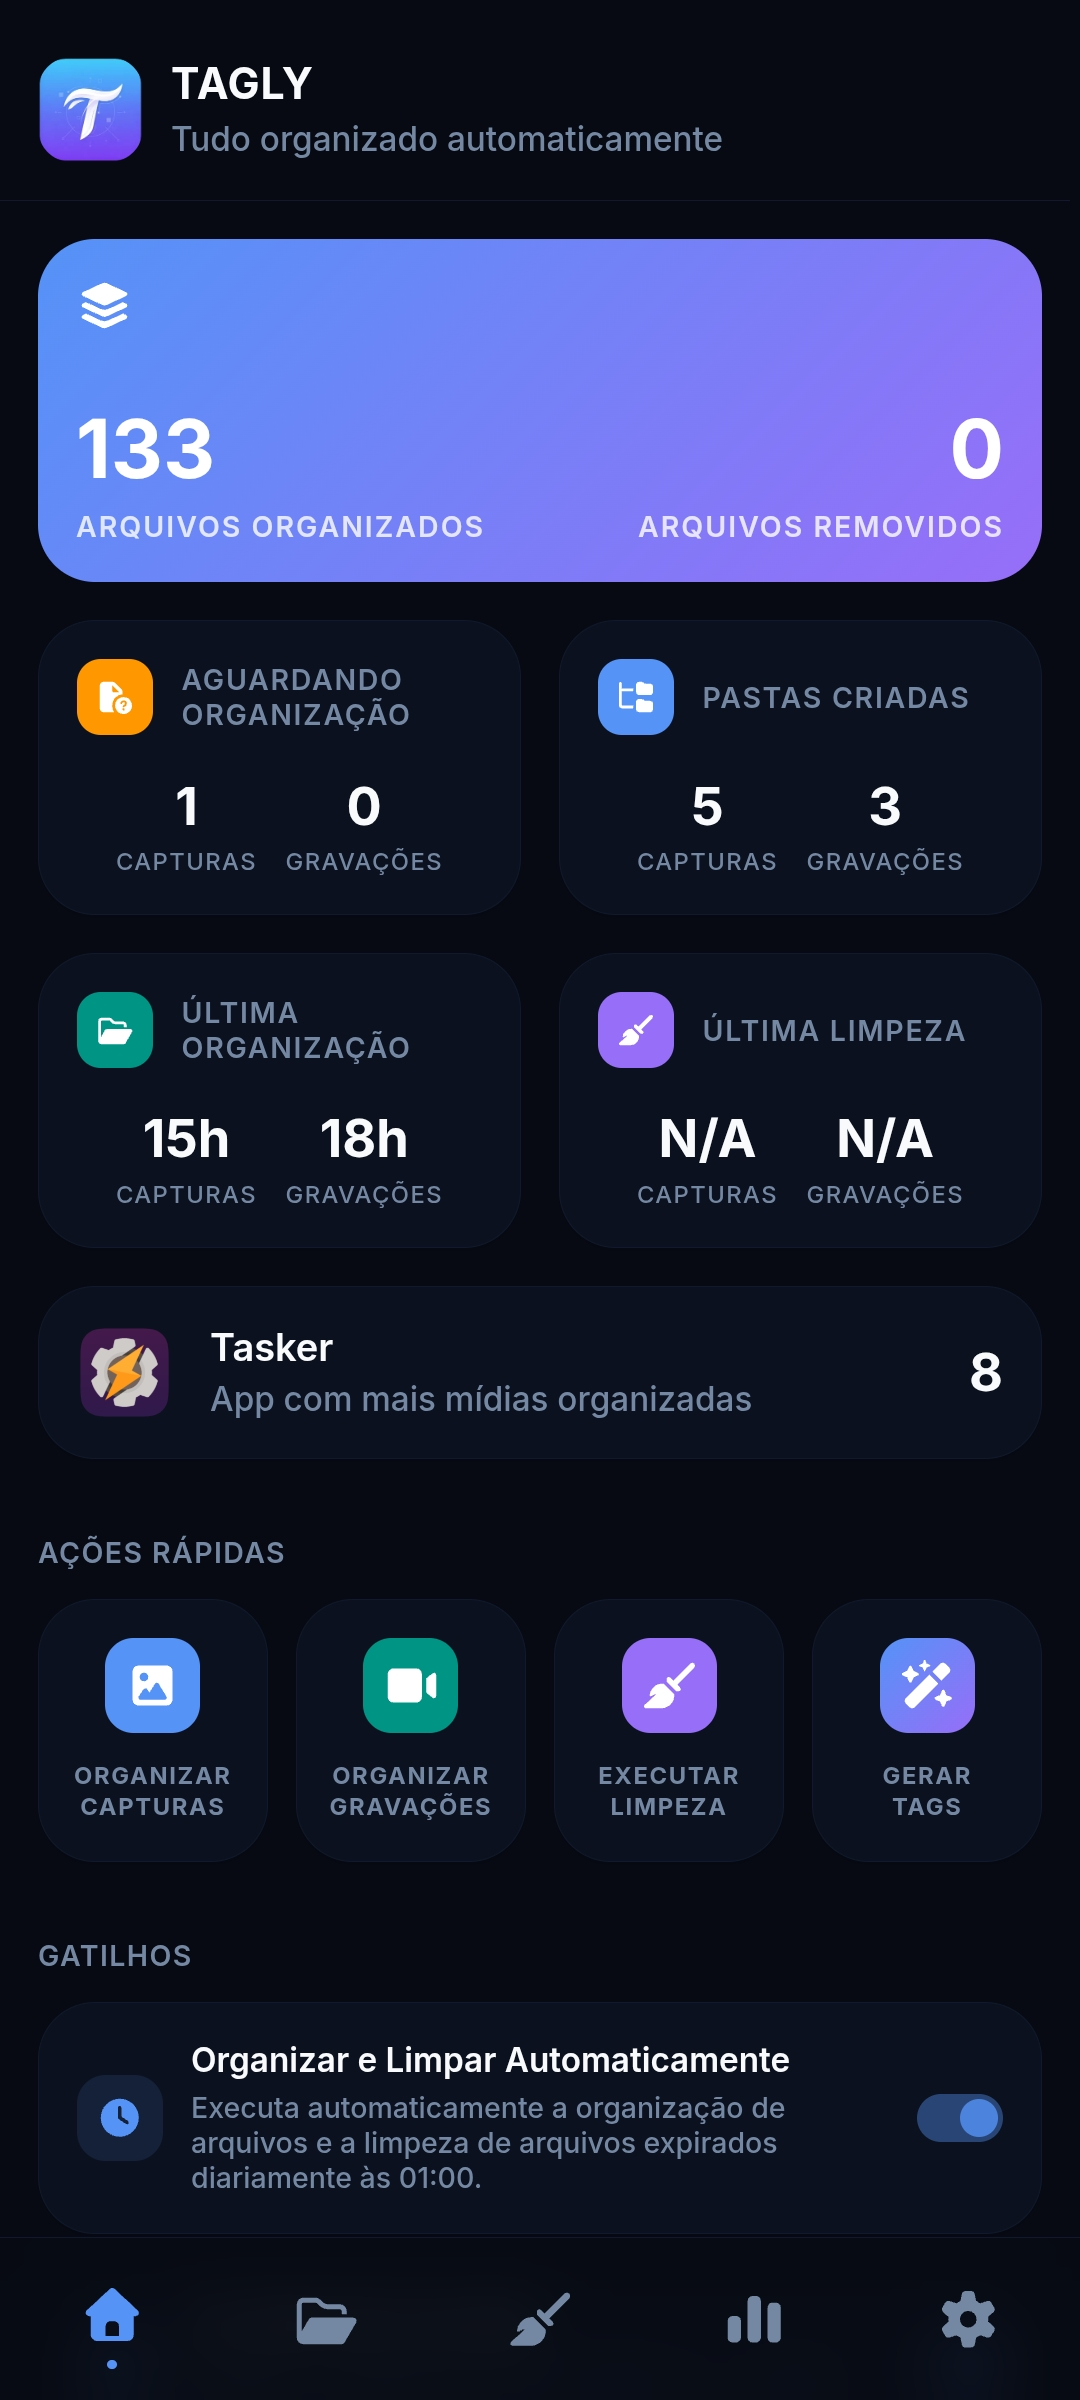
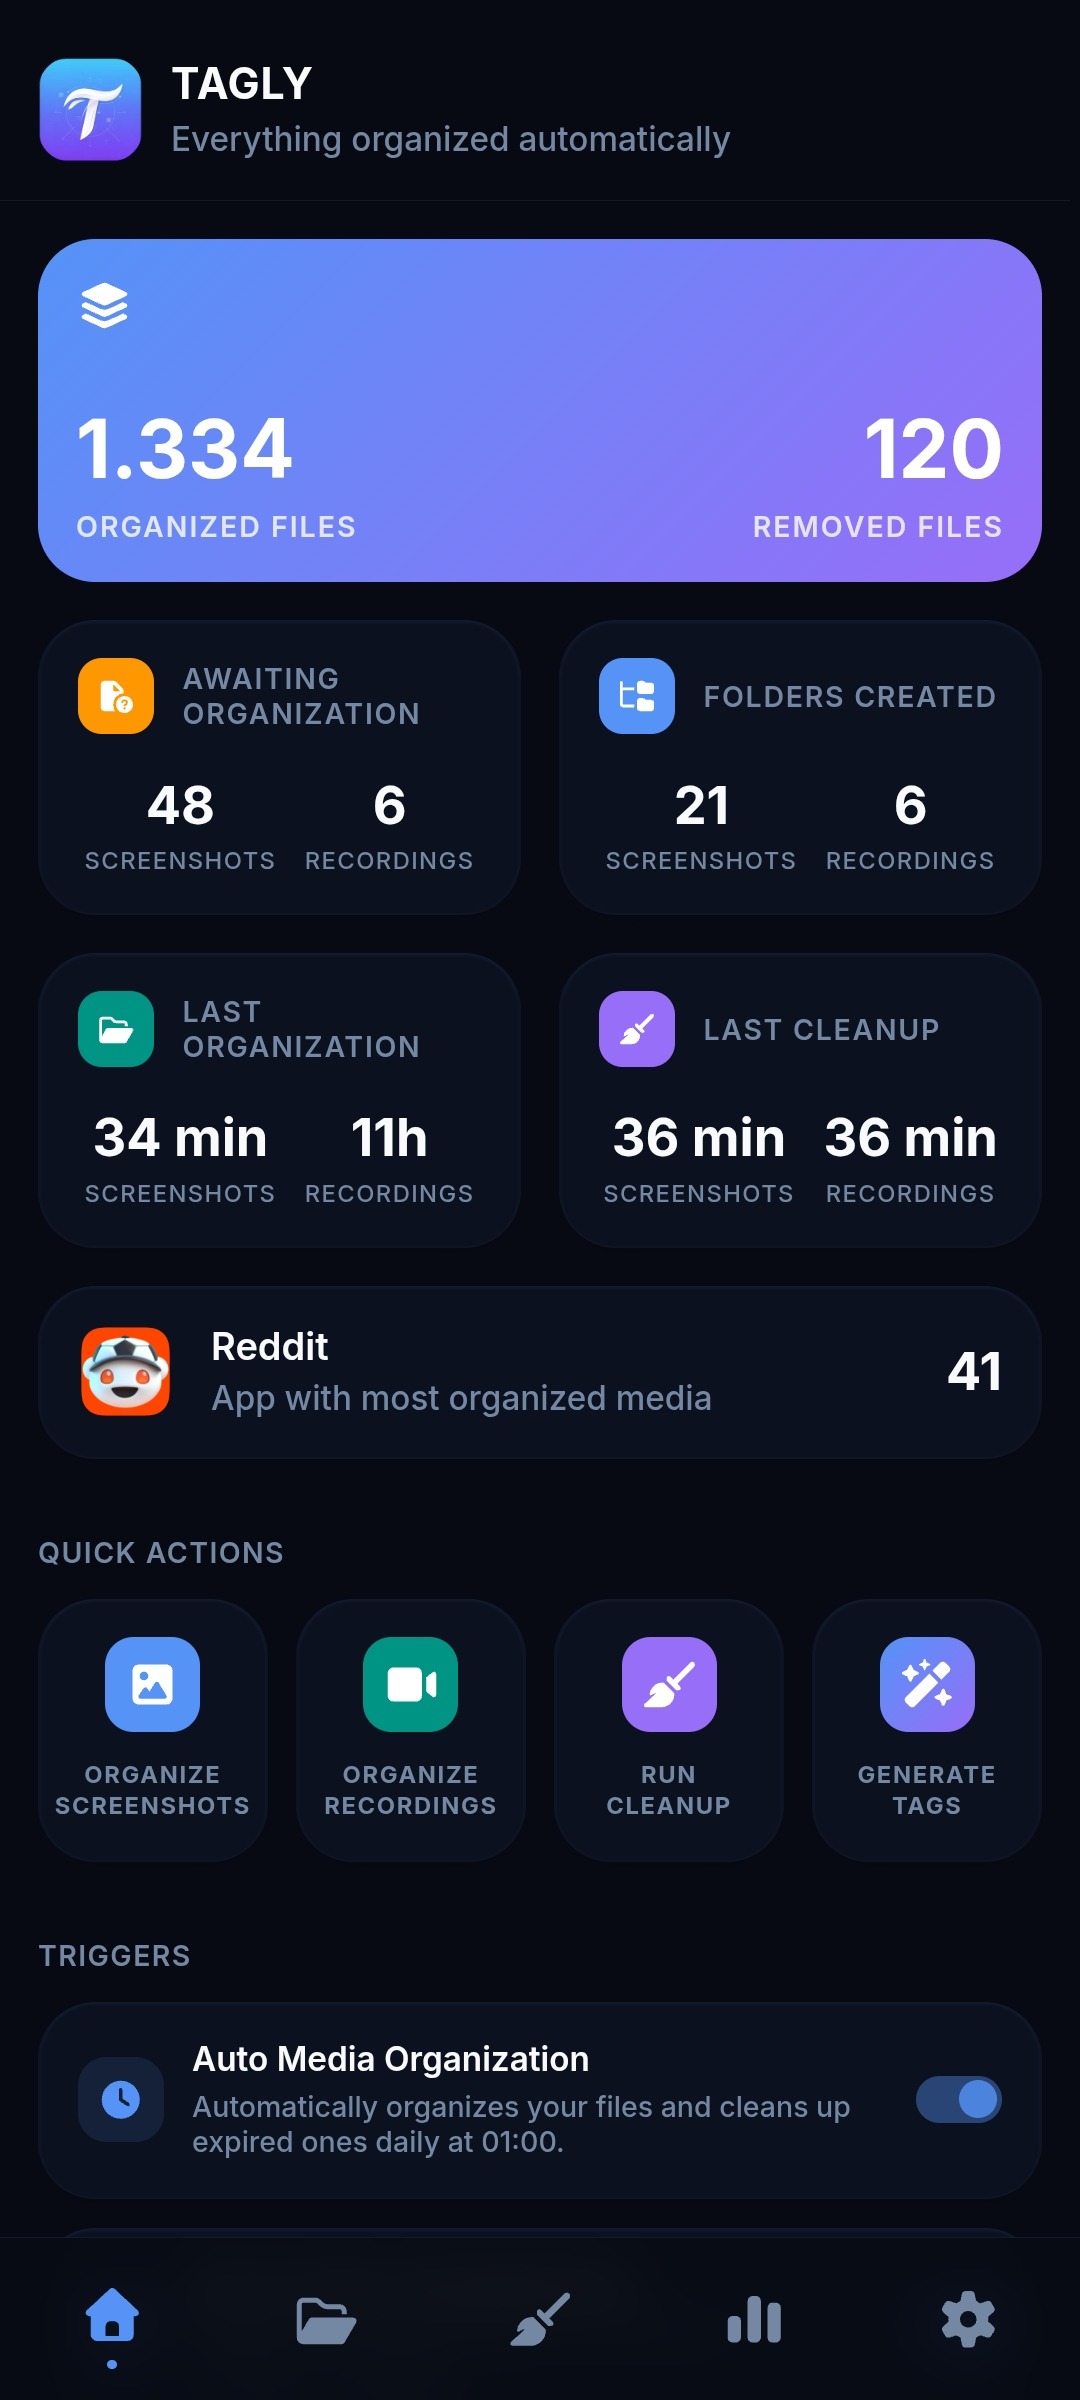
docs: add media multi-selection feature to README

diff --git a/README.md b/README.md
@@ -23,7 +23,7 @@
 </p>
 
 <div align="center">
-  <img src=".github/assets/preview-en.jpg" alt="Tagly Preview" width="320" style="border-radius: 10px">
+  <img src=".github/assets/preview.jpg" alt="Tagly Preview" width="320" style="border-radius: 10px">
 </div>
 
 ## 🚀 Why Tagly?
@@ -66,18 +66,21 @@ npm run dev
 ## 🚀 Getting Started
 
 ### 1. Organize Media
+
 ```txt
 Dashboard → "Organize Captures" or "Organize Recordings"
 → files moved to subfolders by app
 ```
 
 ### 2. Generate Tags for Media
+
 ```txt
 Dashboard → "Generate Tags"  (or Organization → FAB Button ✦)
 → Gemini analyzes each media file and applies tags to the filename
 ```
 
 ### 3. Search Media by Tags
+
 ```txt
 Organization → search field → type a tag or app name
 → results shown in found folders and individual files
@@ -109,13 +112,13 @@ Uses the **Gemini API** to analyze screenshots and screen recordings, automatica
 
 When clicking **Generate Tags**, a dialog displays media files that do not yet have tags, allowing them to be analyzed individually or in batches. During processing, progress indicators show how many files are pending, tagged, or skipped.
 
-| Action                    | Behavior                                                                        |
-| ------------------------- | ------------------------------------------------------------------------------- |
-| **Generate Tags**         | Analyzes the current media file and automatically adds content-related tags     |
-| **Skip**                  | Marks the current media file as skipped                                         |
-| **Generate Tags for All** | Automatically analyzes all pending media files in the queue                     |
-| **Skip All**              | Marks all pending media files as skipped                                        |
-| **Stop**                  | Interrupts batch processing while preserving completed progress                 |
+| Action                    | Behavior                                                                    |
+| ------------------------- | --------------------------------------------------------------------------- |
+| **Generate Tags**         | Analyzes the current media file and automatically adds content-related tags |
+| **Skip**                  | Marks the current media file as skipped                                     |
+| **Generate Tags for All** | Automatically analyzes all pending media files in the queue                 |
+| **Skip All**              | Marks all pending media files as skipped                                    |
+| **Stop**                  | Interrupts batch processing while preserving completed progress             |
 
 **Automatic key rotation:** when usage limits are reached, Tagly automatically switches between configured Gemini API keys and models.
 
@@ -139,6 +142,22 @@ The main view displays a grid of folders grouped by application, showing informa
 Inside a folder, media files can be filtered by status (**All**, **Tagged**, **Pending**, and **Skipped**) and images, videos, and their associated tags can be viewed.
 
 Tapping a media file opens the **Media Details** dialog, featuring full-screen preview, tag viewing and removal, and the ability to generate tags for files that have not yet been analyzed.
+
+### ✅ Media Multi-Selection
+
+Inside a folder, press and hold a media file to enter selection mode. Tap other media files to add or remove them from the selection.
+
+When selection mode is active, a floating action bar appears at the bottom of the screen:
+
+| Action            | Behavior                                                                                  |
+| ----------------- | ----------------------------------------------------------------------------------------- |
+| **Select All**    | Selects or deselects all currently visible media files; shows the count of selected items |
+| **Generate Tags** | Opens the tag generation dialog with only the selected files that don't have tags yet     |
+| **Share**         | Shares the selected files                                                                 |
+| **Delete**        | Removes the selected files                                                                |
+| **Cancel**        | Exits selection mode without performing any action                                        |
+
+Selection mode can also be exited using Android's back gesture or back button.
 
 ### 🧹 Automatic Cleanup
 

diff --git a/README.pt.md b/README.pt.md
@@ -23,7 +23,7 @@
 </p>
 
 <div align="center">
-  <img src=".github/assets/preview.jpg" alt="Prévia do Tagly" width="320" style="border-radius: 10px">
+  <img src=".github/assets/preview-pt.jpg" alt="Prévia do Tagly" width="320" style="border-radius: 10px">
 </div>
 
 ## 🚀 Por que o Tagly?
@@ -66,18 +66,21 @@ npm run dev
 ## 🚀 Primeiros Passos
 
 ### 1. Organizar Mídias
+
 ```txt
 Dashboard → "Organizar Capturas" ou "Organizar Gravações"
 → arquivos movidos para subpastas por app
 ```
 
 ### 2. Gerar Tags para as Mídias
+
 ```txt
 Dashboard → "Gerar Tags"  (ou Organização → Botão FAB ✦)
 → Gemini analisa cada mídia e aplica tags no nome do arquivo
 ```
 
 ### 3. Buscar Mídias por Tags
+
 ```txt
 Organização → campo de busca → digitar uma tag ou nome de app
 → resultados em pastas e arquivos individuais encontrados
@@ -139,6 +142,22 @@ A visualização principal apresenta uma grade de pastas agrupadas por aplicativ
 Ao acessar uma pasta, é possível filtrar as mídias por status (**Todas**, **Com tags**, **Pendentes** e **Ignoradas**) e visualizar imagens, vídeos e suas respectivas tags.
 
 Ao tocar em uma mídia, é aberto o diálogo **Detalhe da Mídia**, com visualização em tela cheia, exibição e remoção de tags, além da opção de gerar tags para arquivos que ainda não foram analisados.
+
+### ✅ Multisseleção de Mídias
+
+Dentro de uma pasta, mantenha o toque pressionado sobre uma mídia para ativar o modo de seleção. Toque em outras mídias para adicionar ou remover da seleção.
+
+Ao entrar no modo de seleção, uma barra flutuante de ações é exibida na parte inferior da tela:
+
+| Ação                | Comportamento                                                                                     |
+| ------------------- | ------------------------------------------------------------------------------------------------- |
+| **Selecionar Tudo** | Seleciona ou desmarca todas as mídias visíveis no momento; exibe a contagem de itens selecionados |
+| **Gerar Tags**      | Abre o diálogo de geração de tags apenas com as mídias selecionadas que ainda não possuem tags    |
+| **Compartilhar**    | Compartilha os arquivos selecionados                                                              |
+| **Apagar**          | Remove os arquivos selecionados                                                                   |
+| **Cancelar**        | Sai do modo de seleção sem executar nenhuma ação                                                  |
+
+O modo de seleção também pode ser encerrado pelo botão/gesto de voltar do Android.
 
 ### 🧹 Limpeza Automática
 